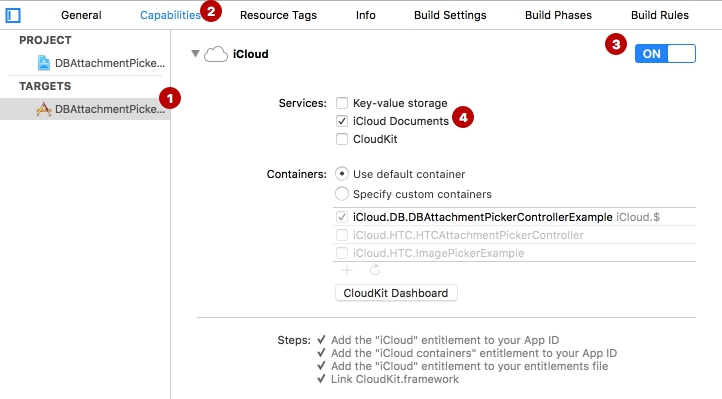
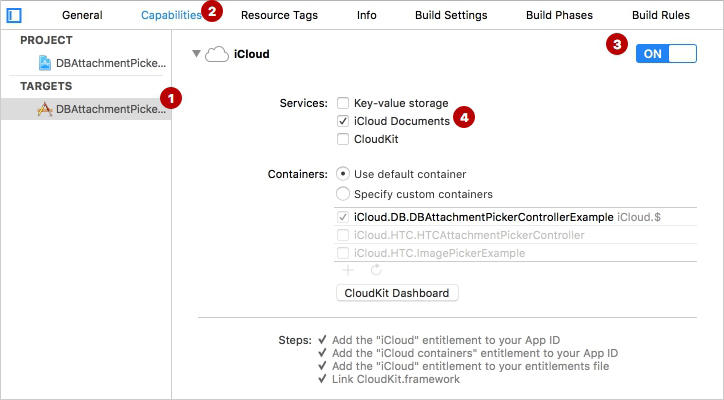
Small fixes

diff --git a/README.md b/README.md
@@ -85,7 +85,7 @@ To usage Document Picker you must:
 - turn on the iCloud Documents capabilities in Xcode (see image later)
 
 
-<img src="Screenshots/iCloudDocumentsCapability.jpg" width="512" align="center"/>
+<img src="Screenshots/iCloudDocumentsCapability.jpg" width="570"/>
 
 ## DBAttachment
 
